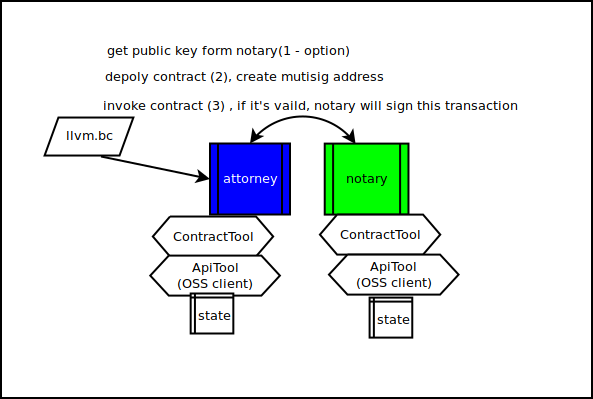
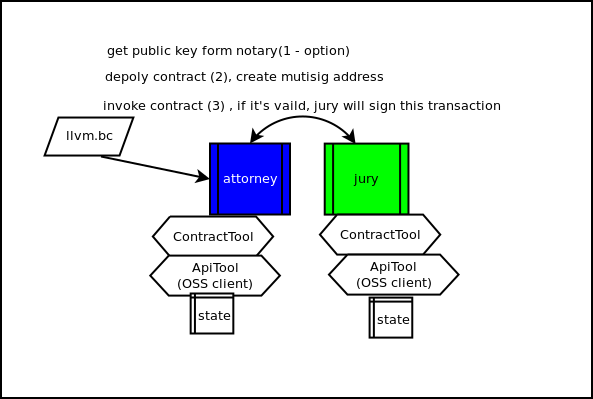
change word "notary" to "jury"

diff --git a/article/ch2.md b/article/ch2.md
@@ -8,22 +8,22 @@
 
 ### 执行说明
 #### 部属合约:
-1. 将notary的列表注册加入attorney. attorney会将notary的公钥储存起来. (之后用于产生mutisig address)
+1. 将Jury的列表注册加入Attorney. Attorney会将Jury的公钥储存起来. (之后用于产生mutisig address)
 2. llvm.bc和contract.h为一组的. llvm.bc透过contract.c产生实际的合约执行档
 3. ContractTool为合约的sdk. 透过实行/产生部属执行档工作
-4. 使用者在部属contract的时候选定notrary并产生mutisig address
+4. 使用者在部属contract的时候选定Jury并产生mutisig address
 5. Attorney会将使用者部属的条件透过ContractTool先行运行. 如果没有问题会产生Transaction储存结果.
 6. ApiTool的部份用于连接沟通区块链的交互工作.
 7. 使用者签署attorney产生的Transaction结果. (花费链上的钱 -> 传送给Mutisig Address以及Depoly feed)
-8. Attorney将Transaction及llvm.bc传送给Notary. 如果Notary实行都没有出错. Attorney将会depoly这个transaction. 回传Transaction id (tx_id).
-9. Attorney代为储存Mutisig Address以及最新的tx_id和相关Notary列表.
+8. Attorney将Transaction及llvm.bc传送给Notary. 如果Jury实行都没有出错. Attorney将会depoly这个transaction. 回传Transaction id (tx_id).
+9. Attorney代为储存Mutisig Address以及最新的tx_id和相关Jury列表.
 10. 挖矿确认完成之后合约即生效
 
 #### 调用合约:
 1. 输入Mutisig Address及最新的tx_id, user address, 调用合约的函数, Attorney将在本地执行验证请求.
 2. 如果这只是一个查询需求.并不打算更改任何state. Attorney将返回执行结果。
 3. Attorney执行完后将会产生对应需要部属的transaction(tx).
-4. 使用者对这个tx做sign的动作. 然后透过Attorney将这个tx部属给Notarys.
+4. 使用者对这个tx做sign的动作. 然后透过Attorney将这个tx部属给Jury.
 5. 每一个Notary将会验证结果,如果结果符合将会对这个tx做签署及回传验证交易给Attorney.
-6. Attorney蒐集所有Notary的执行结果tx之后尝试部属到链上. 透过区块链去判定这个tx是否合法.
+6. Attorney蒐集所有Jury的执行结果tx之后尝试部属到链上. 透过区块链去判定这个tx是否合法.
 7. 挖矿确认完成之后合约功能执行生效
